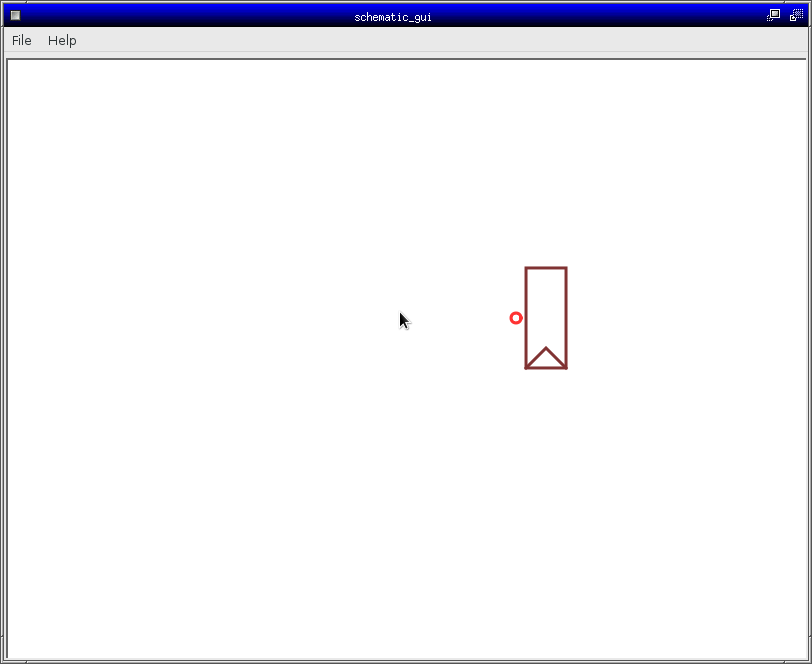
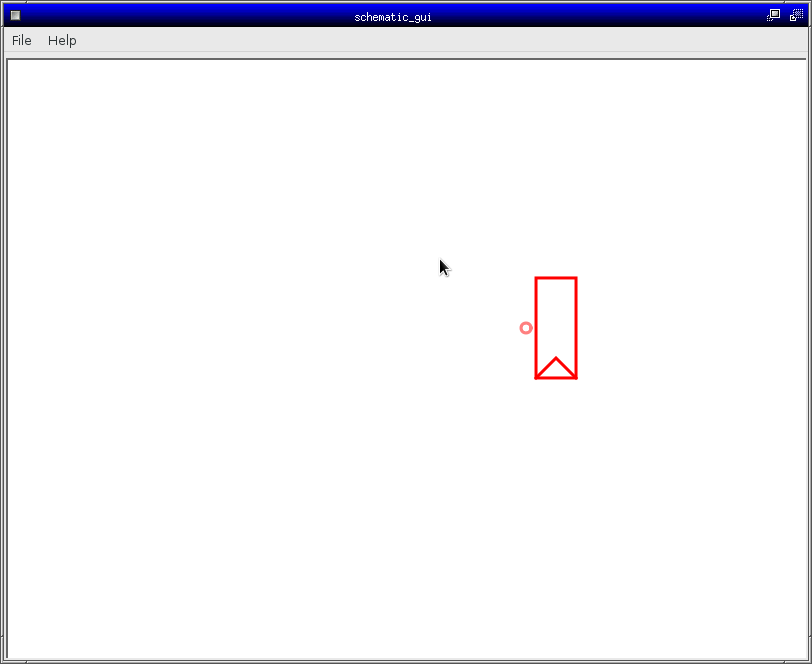
Update to the tutorial

Changed region(s): [[0.6158, 0.3916, 0.7389, 0.5723], [0.5234, 0.3916, 0.5542, 0.4217], [0.4926, 0.4819, 0.5234, 0.512]]

diff --git a/tutorial/tutorial.md b/tutorial/tutorial.md
@@ -11,10 +11,12 @@ At this point there is no *easy* way to undo an operation in
 schematic_gui. However, the following commands may be helpful if you
 make a mistake.
 
-* To delete the component closest to the mouse (highlighted in bright red),
-  press the key *D*
+* To delete the component closest to the mouse (highlighted in bright
+  red), press the key *shift-d*. This will remove the component and
+  all wire segments connected to it.
 * To delete the wire segment closest to the mouse (highlighted in
-  bright red), press the key *d*.
+  bright red), press the key *d*. (When drawing a new wire you can
+  also use *d* to cancel the wire drawing operation.)
 
 
 # First steps, create initial components
@@ -33,6 +35,8 @@ change depending on where you move your mouse cursor).
 
 ![Screenshot0](/tutorial/screen0.png?raw=true)
 
+Note that a component that has been selected for movement by pressing
+the left mouse button will turn blue to indicate this.
 
 
 ## Create 2-to-1 mux
@@ -46,14 +50,13 @@ left mouse button.
 
 If you are not satisfied with the placement of a component you can
 move *the closest* component by pressing the left mouse button once
-(and release it), moving the component to the desired location and
-press the left mouse button once again. (The closest component is
-always highlighted in schematic_gui as seen in the screenshot above
-where the mux is highlighted since it is closest to the cursor.)
+(and release it), moving the cursor to the desired location and press
+the left mouse button once again. (The closest component is always
+highlighted in bright red, regardless of the distance to the mouse
+cursor.)
 
 
-
-## Connect the components.
+## Draw a wire between the components
 
 To connect the two components, move the mouse cursor until the right
 port of the mux is selected as shown below. Note that you don't need
@@ -66,4 +69,49 @@ Press the middle mouse button once to connect a wire to this port. A
 wire will appear as shown below.
 
 ![Screenshot3](/tutorial/screen3.png?raw=true)
+
+Move the cursor until the left port of the register is highlighted and
+press the middle mouse button again. Your screen should now look like
+this:
+
+![Screenshot4](/tutorial/screen4.png?raw=true)
+
+(The red ring on the highlighted wire marks the spot on the wire that
+is closest to the cursor.)
+
+
+## Create and connect another multiplexer
+
+Create another multiplexer by pressing the key *2*. Place and connect
+it as shown below.
+
+![Screenshot5](/tutorial/screen5.png?raw=true)
+
+
+## Create and connect an adder
+
+Create an adder by pressing the key *1*. Place and connect it as shown
+below.
+
+![Screenshot6](/tutorial/screen6.png?raw=true)
+
+
+## Placing text on the schematic
+
+We will now place the text _result__ on the schematic Press the key
+*t*. Write the text _result_ in the dialog that appears. Move it and
+place it as shown below.
+
+![Screenshot7](/tutorial/screen7.png?raw=true)
+
+## Connecting a wire to the text
+
+Similar to the components created above a text string has four ports
+available. Draw a wire from the register to the text string as shown
+below. (Move the mouse cursor so that the leftmost port on the text
+string is highlighted, press the middle mouse button. Move the cursor
+so that the rightmost port on the register is highlighted and press
+the middle mouse button again.)
+
+![Screenshot8](/tutorial/screen8.png?raw=true)
 
